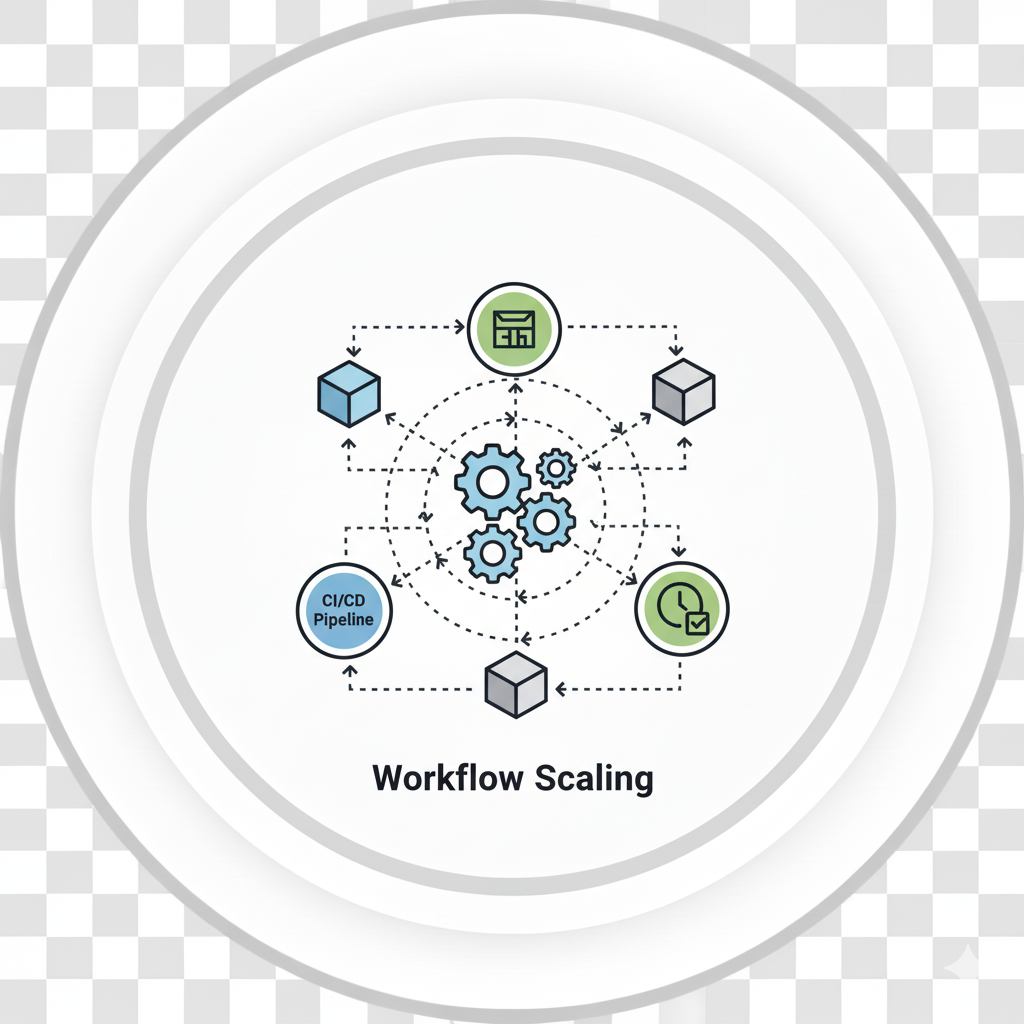
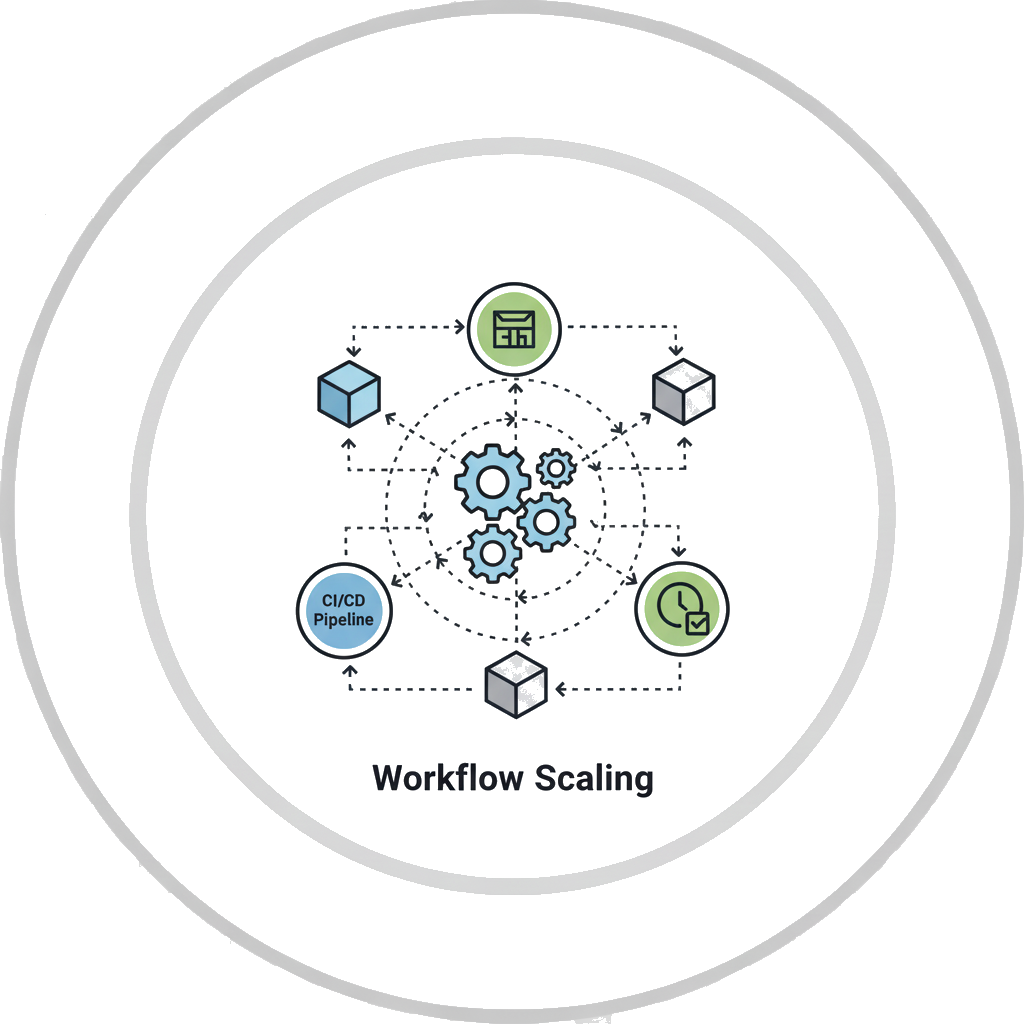
Make image backgrounds truly transparent and remove CSS blend hacks
- Process all 12 PNGs with sharp: pixels with R,G,B all > 220 set to
  alpha 0, removing the light gray/white circular backgrounds
- Remove mix-blend-mode, filter:invert, hue-rotate CSS workarounds
- Icons now float cleanly on the dark page background

diff --git a/src/styles/components.css b/src/styles/components.css
@@ -239,8 +239,6 @@
   height: 72px;
   object-fit: contain;
   flex-shrink: 0;
-  mix-blend-mode: multiply;
-  filter: invert(1) hue-rotate(180deg);
 }
 
 .level-card__content {
@@ -755,8 +753,6 @@
   height: 100px;
   object-fit: contain;
   flex-shrink: 0;
-  mix-blend-mode: multiply;
-  filter: invert(1) hue-rotate(180deg);
 }
 
 @media (max-width: 640px) {

diff --git a/src/styles/layout.css b/src/styles/layout.css
@@ -101,8 +101,6 @@
   width: 100%;
   height: 100%;
   object-fit: contain;
-  mix-blend-mode: multiply;
-  filter: invert(1) hue-rotate(180deg);
 }
 
 @media (max-width: 640px) {
